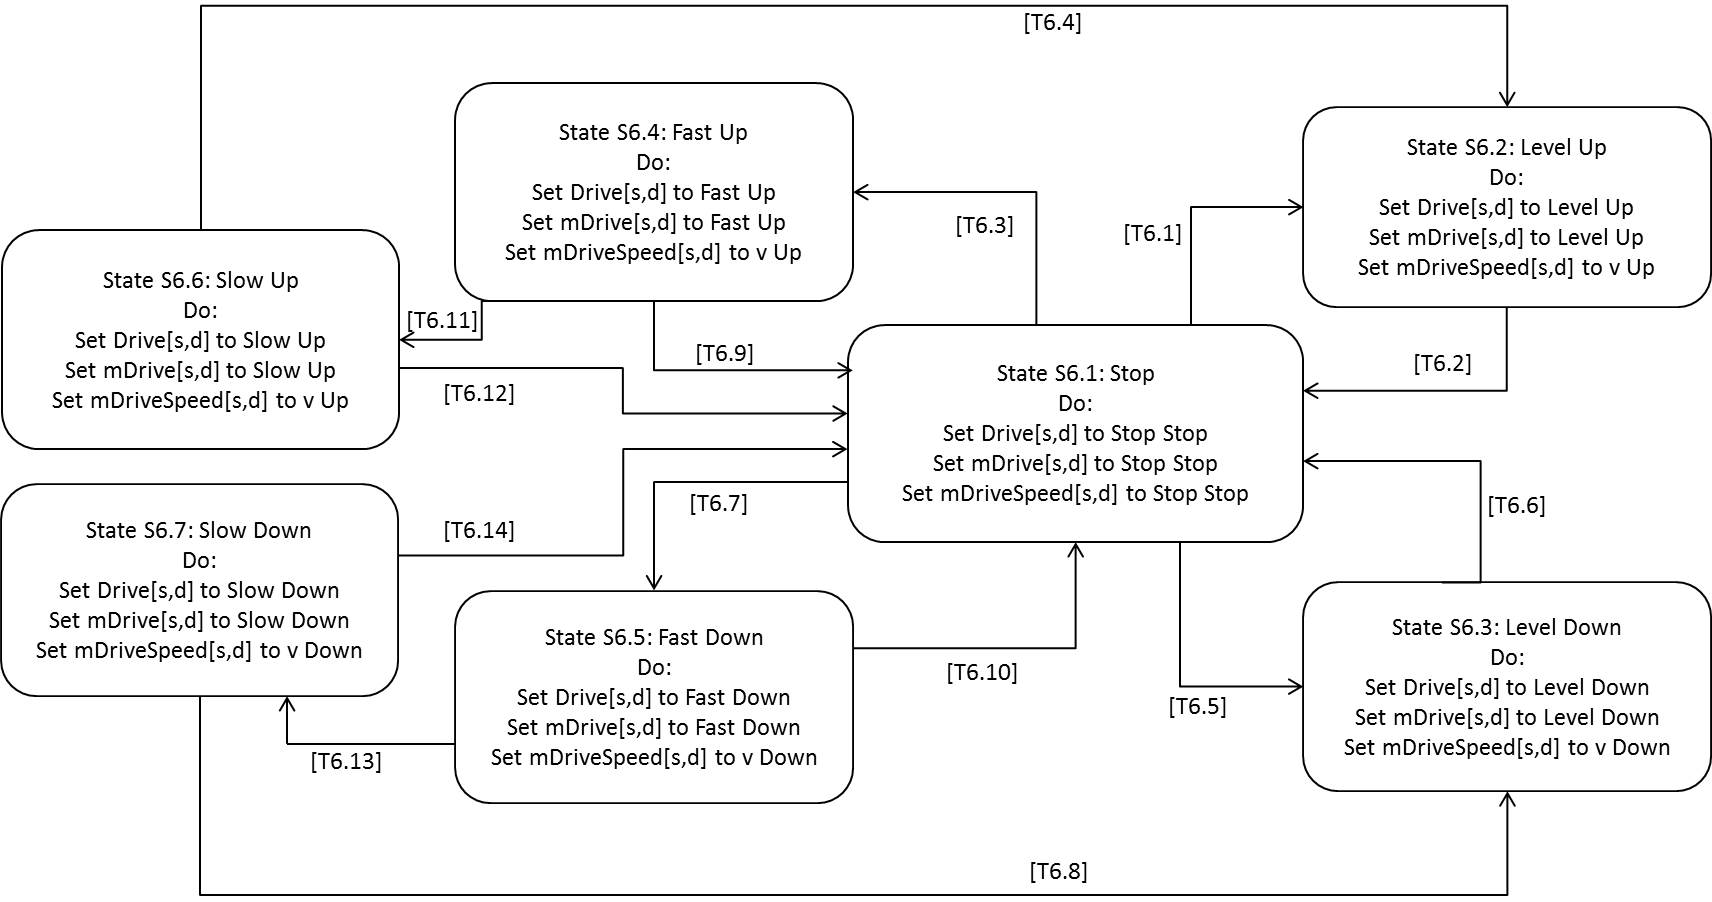
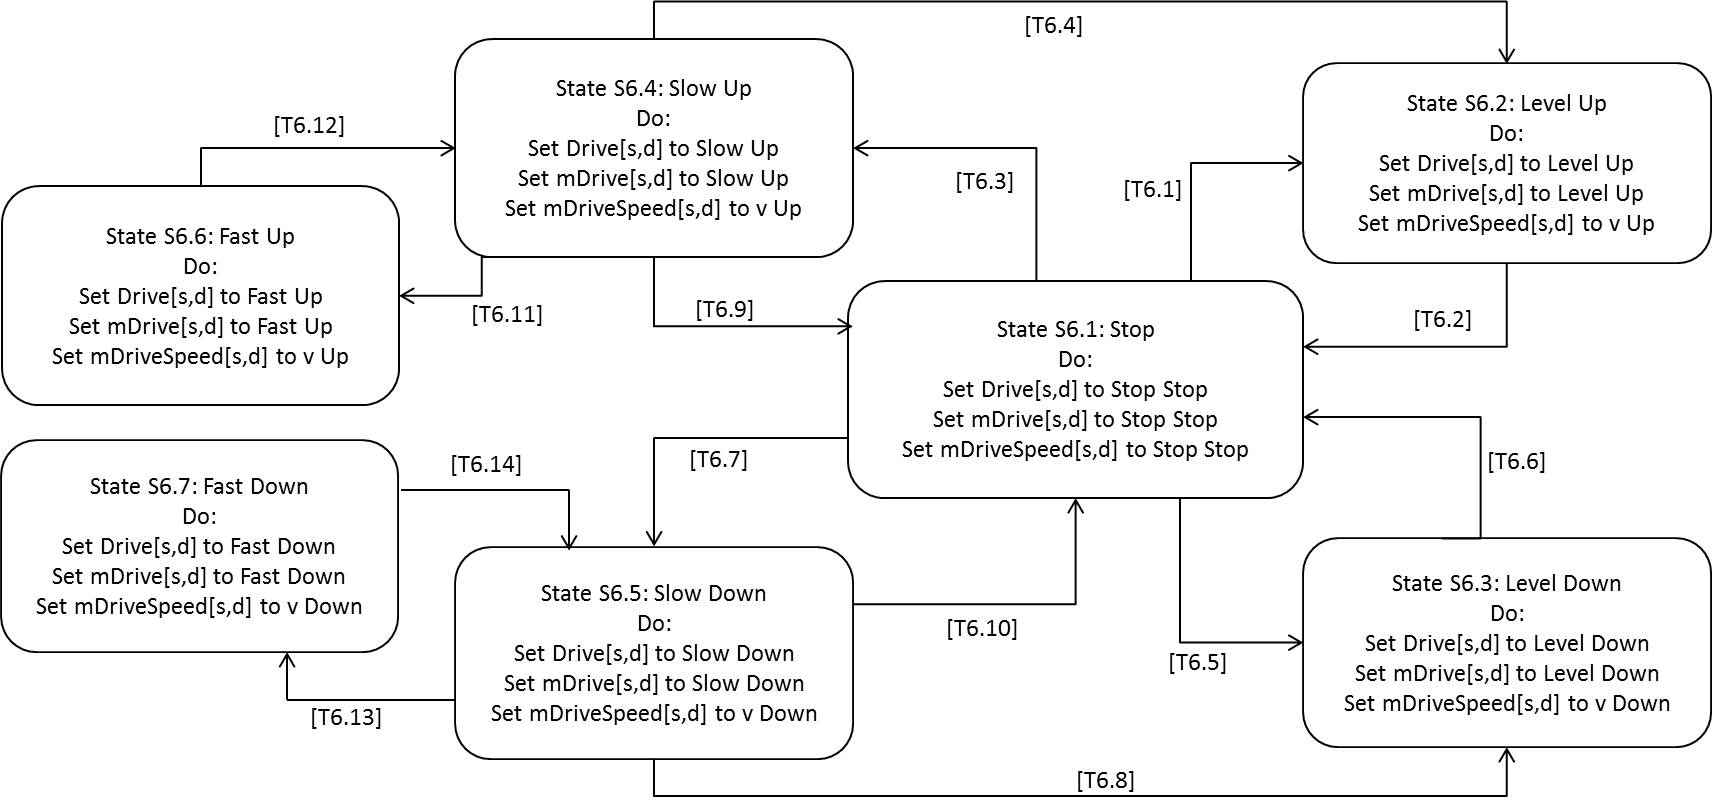
drive doc

diff --git a/portfolio/portfolio/reqs/requirements2.html b/portfolio/portfolio/reqs/requirements2.html
@@ -1917,7 +1917,7 @@
         &nbsp;&nbsp;&nbsp; 6.9.1&nbsp; Drive[s,d] shall be set to [STOP, STOP]. <br>
         &nbsp;&nbsp;&nbsp; 6.9.2&nbsp; mDriveSpeed[s,d] shall be set to [0, STOP]. <br>
 		  6.10&nbsp;&nbsp;&nbsp; If currentFloor is not equal to mDesiredFloor AND mDoorClosed is True AND mDoorMotor is Stop, then: <br>
-        &nbsp;&nbsp;&nbsp; 6.10.1&nbsp; Drive[s,d] shall be set to [FAST, desiredDirection]. <br>
+        &nbsp;&nbsp;&nbsp; 6.10.1&nbsp; Drive[s,d] shall be set to [SLOW, desiredDirection]. <br>
         &nbsp;&nbsp;&nbsp; 6.10.2&nbsp; mDriveSpeed[s,d] shall be set to [v, desiredDirection]. <br>
 		  6.11&nbsp;&nbsp;&nbsp; If currentFloor == mDesiredFloor AND mLevel[*] is False, then: <br>
         &nbsp;&nbsp;&nbsp; 6.11.1&nbsp; Drive[s,d] shall be set to [Level, d]. <br>
@@ -2087,7 +2087,7 @@
                     <td style="vertical-align: top;">T6.11<br>
                     </td>
                     <td style="vertical-align: top;">
-						  Drive.s != STOP AND DesiredFloor height - mCarLevelPosition <= 1m 
+						  Drive.s != STOP AND DesiredFloor height - mCarLevelPosition >= 1m 
 						  <br>
                     </td>
                 </tr>
@@ -2095,7 +2095,7 @@
                     <td style="vertical-align: top;">T6.12<br>
                     </td>
                     <td style="vertical-align: top;">
-						  mEmergencyBrake&nbsp;&larr;&nbsp;True&nbsp; OR
+						  (Drive.s != STOP AND DesiredFloor height - mCarLevelPosition is less than 1m)&nbsp; OR mEmergencyBrake&nbsp;&larr;&nbsp;True&nbsp; OR
 							mHoistwayLimitUp&nbsp;&larr;&nbsp;True&nbsp; OR
 							mHoistwayLimitDown&nbsp;&larr;&nbsp;True&nbsp; 
 						  <br>
@@ -2105,7 +2105,7 @@
                     <td style="vertical-align: top;">T6.13<br>
                     </td>
                     <td style="vertical-align: top;">
-						  Drive.s != STOP AND mCarLevelPosition - DesiredFloor height <= 1m &nbsp;
+						  Drive.s != STOP AND mCarLevelPosition - DesiredFloor height >= 1m &nbsp;
 						  <br>
                     </td>
                 </tr>
@@ -2113,7 +2113,7 @@
                     <td style="vertical-align: top;">T6.14<br>
                     </td>
                     <td style="vertical-align: top;">
-						  mEmergencyBrake&nbsp;&larr;&nbsp;True&nbsp; OR
+						  (Drive.s != STOP AND mCarLevelPosition - DesiredFloor height is less than 1m)&nbsp; OR mEmergencyBrake&nbsp;&larr;&nbsp;True&nbsp; OR
 							mHoistwayLimitUp&nbsp;&larr;&nbsp;True&nbsp; OR
 							mHoistwayLimitDown&nbsp;&larr;&nbsp;True&nbsp; 
 						  <br>
@@ -2596,13 +2596,13 @@
                     </td>
                     <td style="vertical-align: top;">X<br>
                     </td>
-						  <td style="vertical-align: top;">X<br>
-                    </td>
-						  <td style="vertical-align: top;">X<br>
-                    </td>
 						  <td style="vertical-align: top;"><br>
                     </td>
 						  <td style="vertical-align: top;"><br>
+                    </td>
+						  <td style="vertical-align: top;">X<br>
+                    </td>
+						  <td style="vertical-align: top;">X<br>
                     </td>
                 </tr>
 					 <tr>
@@ -2748,13 +2748,13 @@
                     </td>
                     <td style="vertical-align: top;">X<br>
                     </td>
-						  <td style="vertical-align: top;">X<br>
-                    </td>
-						  <td style="vertical-align: top;">X<br>
-                    </td>
 						  <td style="vertical-align: top;"><br>
                     </td>
 						  <td style="vertical-align: top;"><br>
+                    </td>
+						  <td style="vertical-align: top;">X<br>
+                    </td>
+						  <td style="vertical-align: top;">X<br>
                     </td>
                 </tr>
 					 <tr>
@@ -2898,15 +2898,15 @@
                     </td>
 						  <td style="vertical-align: top;"><br>
                     </td>
-                    <td style="vertical-align: top;"><br>
-                    </td>
-						  <td style="vertical-align: top;"><br>
-                    </td>
-						  <td style="vertical-align: top;"><br>
+                    <td style="vertical-align: top;">X<br>
                     </td>
 						  <td style="vertical-align: top;">X<br>
                     </td>
 						  <td style="vertical-align: top;">X<br>
+                    </td>
+						  <td style="vertical-align: top;"><br>
+                    </td>
+						  <td style="vertical-align: top;"><br>
                     </td>
                 </tr>
 					 <tr>
@@ -2974,15 +2974,15 @@
                     </td>
 						  <td style="vertical-align: top;"><br>
                     </td>
-                    <td style="vertical-align: top;"><br>
-                    </td>
-						  <td style="vertical-align: top;"><br>
-                    </td>
-						  <td style="vertical-align: top;"><br>
+                    <td style="vertical-align: top;">X<br>
                     </td>
 						  <td style="vertical-align: top;">X<br>
                     </td>
 						  <td style="vertical-align: top;">X<br>
+                    </td>
+						  <td style="vertical-align: top;"><br>
+                    </td>
+						  <td style="vertical-align: top;"><br>
                     </td>
                 </tr>
 					 <tr>
